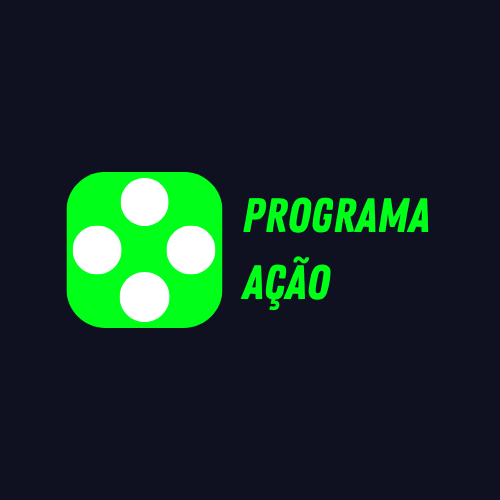
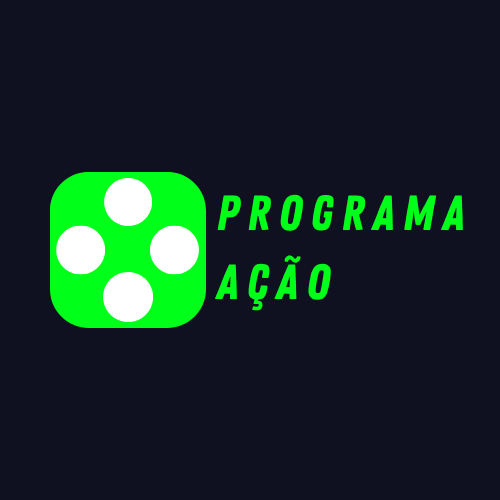
correção imagens

Changed region(s): [[0.09, 0.33, 0.93, 0.66]]

diff --git a/index.html b/index.html
@@ -22,9 +22,9 @@
 </head>
 
 <body>
-    <img src="imagens/Programa ação (1).png" alt="Logo da empresa" class="meio"> <!-- Exibe uma imagem centralizada na tela, representando o logo da empresa, com uma classe para estilização -->
+    <img src="imagens/Logo.png" alt="Logo da empresa" class="meio"> <!-- Exibe uma imagem centralizada na tela, representando o logo da empresa, com uma classe para estilização -->
 
-    <img src="imagens/Programa ação.png" alt="Logo com nome" class="canto"> <!-- Exibe uma imagem no canto superior esquerdo, também representando o logo, mas com uma classe diferente para posicionamento especifico -->
+    <img src="imagens/Programa ação.png" alt="Logo com nome" class="imgcanto"> <!-- Exibe uma imagem no canto superior esquerdo, também representando o logo, mas com uma classe diferente para posicionamento especifico -->
 
     <div class="login-box">
 

diff --git a/style.css b/style.css
@@ -45,11 +45,11 @@ body {
     background-color: #006811; /* Muda a cor de fundo do botão de envio para azul (#0056b3) quando o mouse está sobre ele */
 }
 
-.canto {
+.imgcanto {
     position: absolute; /* Posiciona o elemento em relação ao seu contêiner mais próximo com posição relativa */
-    top: 5px; /* Posiciona o elemento 5px a partir do topo do contêiner */
+    top: -70px; /* Posiciona o elemento 5px a partir do topo do contêiner */
     left: 10px; /* Posiciona o elemento 10px a partir da borda esquerda do contêiner */
-    width: 150px; /* Define a largura do elemento como 150px */
+    width: 250px; /* Define a largura do elemento como 150px */
     height: auto; /* Ajusta automaticamente a altura para manter a proporção da imagem */
 }
 
